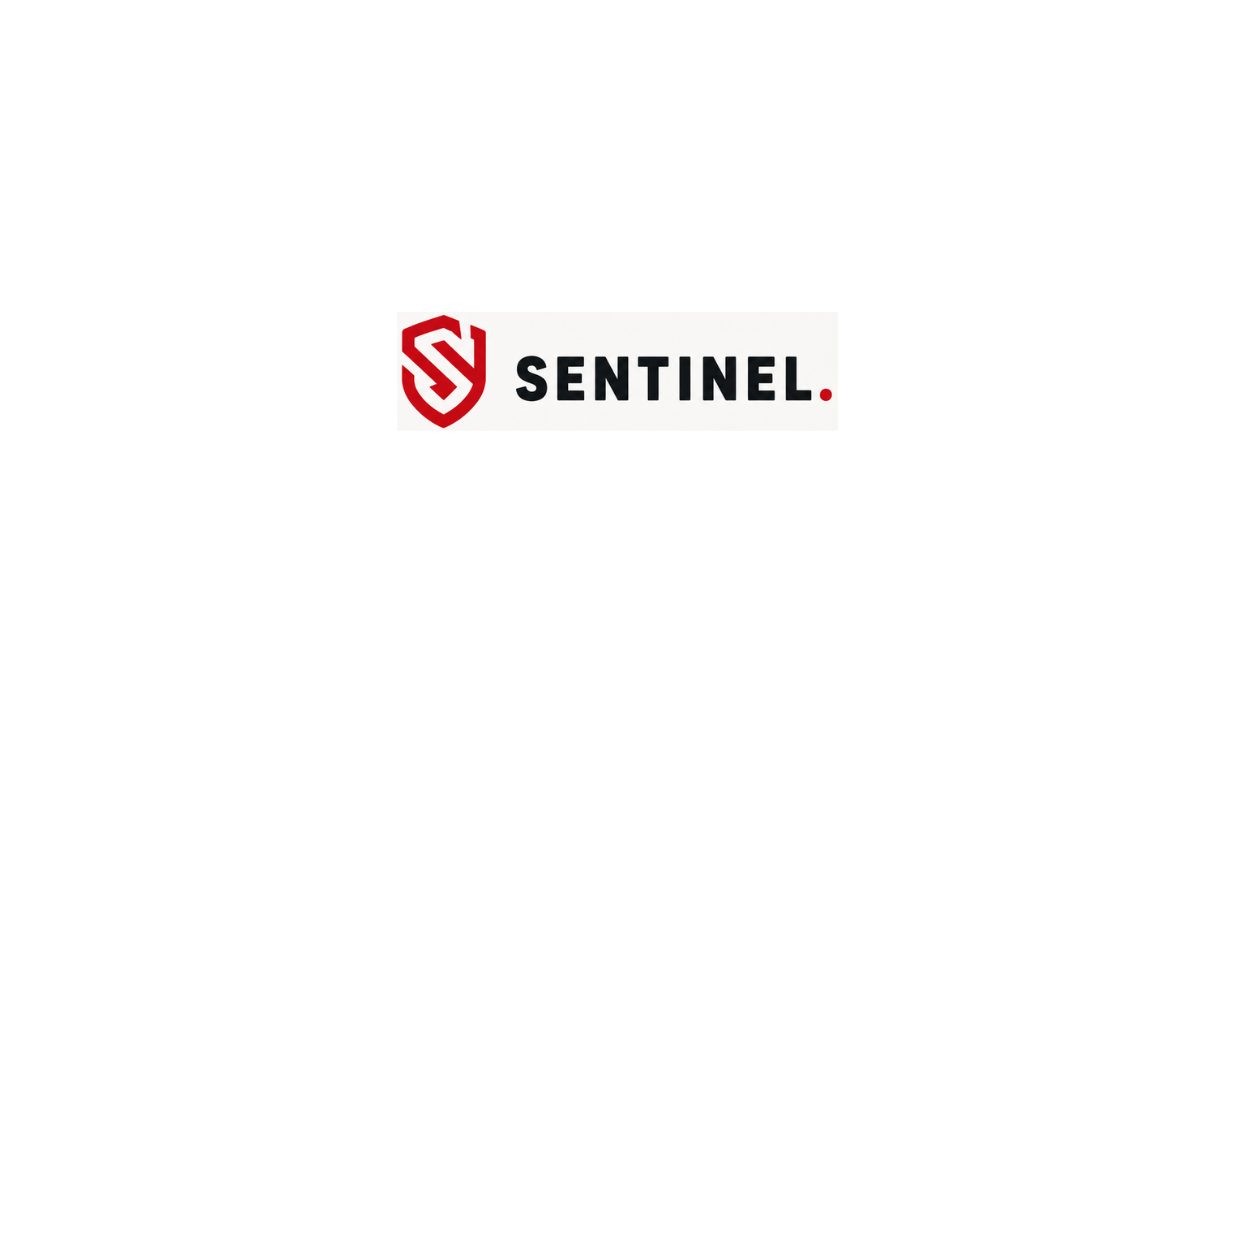
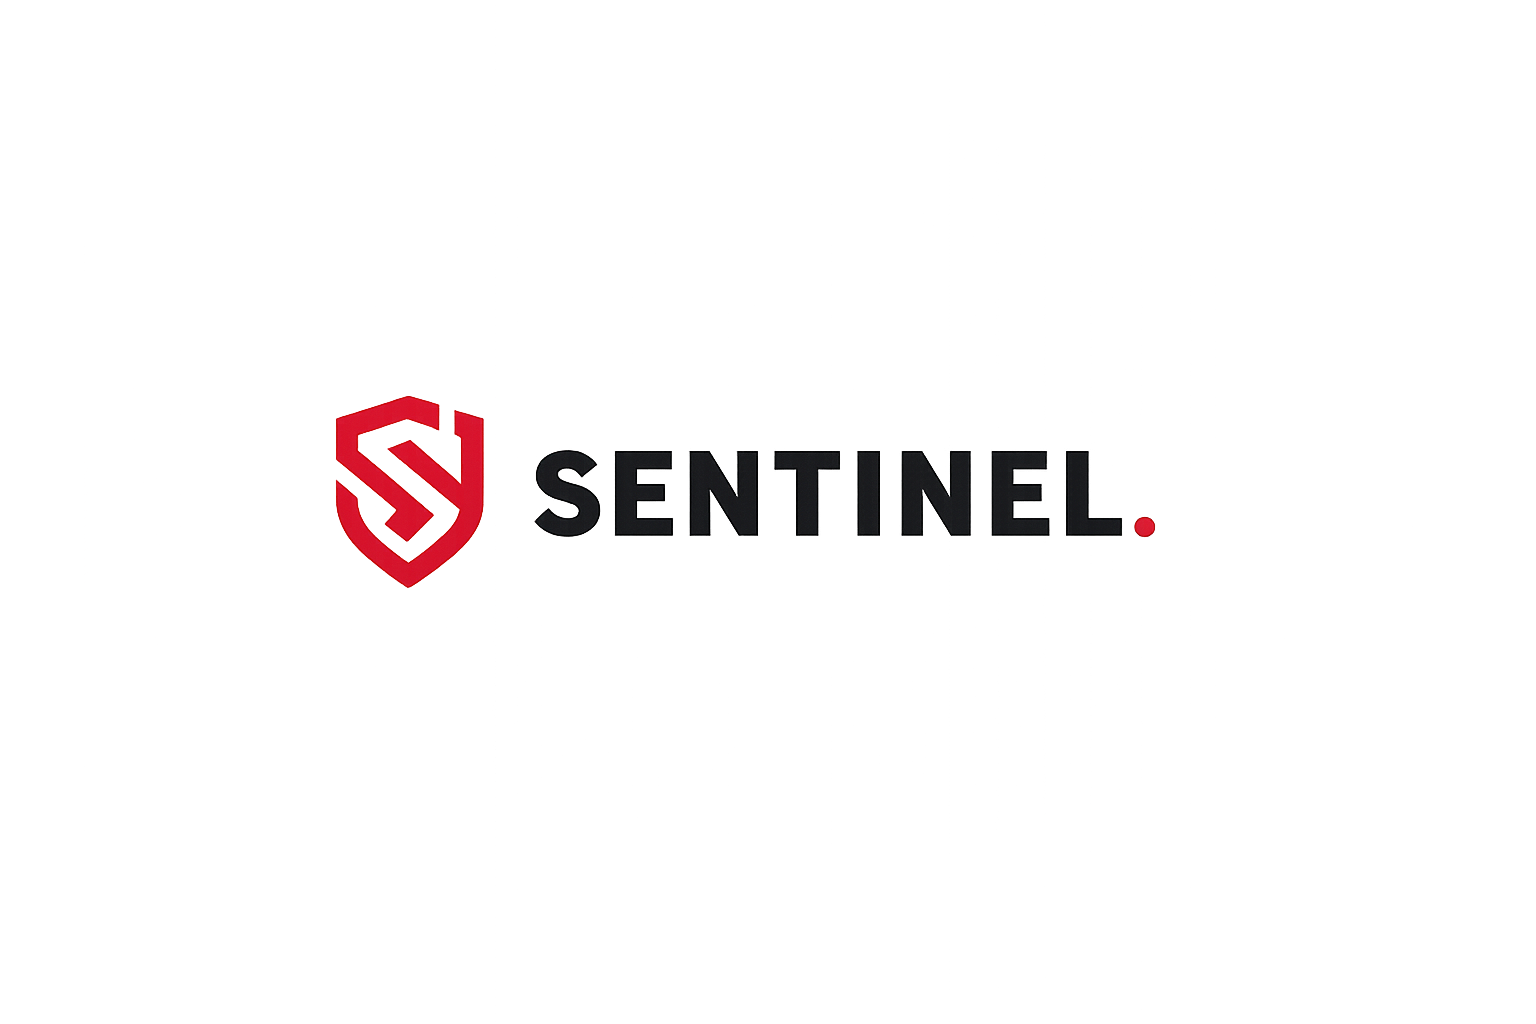
Replace placeholder branding with the real Sentinel shield mark
The supplied logo files arrived as flattened JPEGs on opaque black, which
cannot sit on the off-white UI. Because artwork on pure black is already
premultiplied alpha, unpremultiplying recovers true anti-aliased edges, so
the shield extracts cleanly without a dark halo.

- Extract the shield to public/brand/shield.png with real transparency and
  render it via ShieldMark, preserving its 222:288 ratio inside the square
  sizing the six call sites already use
- Normalise the mark to the #CC1E1E brand token; the sampled JPEG reds
  disagreed with each other, so the design-system value is authoritative
- Add icon.png and apple-icon.png, replacing the default Next.js favicon.
  The Apple tile gets an off-white surface because iOS composites
  transparency onto black
- Keep the wordmark as live text so it stays crisp and recolourable
- Drop the unreferenced create-next-app SVGs

Changed region(s): [[0.2184, 0.375, 0.7488, 0.5938], [0.312, 0.25, 0.6552, 0.3438]]

diff --git a/src/components/Wordmark.tsx b/src/components/Wordmark.tsx
@@ -1,7 +1,10 @@
+import Image from "next/image";
+
 /**
  * SENTINEL. wordmark — the red period is non-negotiable (SOUL §6.1).
- * On-screen SVG/text mark is a placeholder only; the true vector comes from the
- * Sentinel Drive via contact@getbrandedfast.com (SOUL §13.10) for any print use.
+ * Rendered as live text so it stays crisp at any size and recolours with the
+ * theme. For print, use the true vector from the Sentinel Drive via
+ * contact@getbrandedfast.com (SOUL §13.10).
  */
 export function Wordmark({
   className = "",
@@ -32,22 +35,21 @@ export function Wordmark({
   );
 }
 
-/** Small shield-S placeholder icon (screen only; not for print). */
+/**
+ * Shield-S mark. Call sites size it with square utilities (h-8 w-8), so
+ * object-contain preserves the mark's 222:288 portrait ratio instead of
+ * stretching it. Screen only; not for print.
+ */
 export function ShieldMark({ className = "h-8 w-8" }: { className?: string }) {
   return (
-    <svg viewBox="0 0 48 56" className={className} aria-hidden="true">
-      <path
-        d="M24 2 4 10v18c0 14 9 22 20 26 11-4 20-12 20-26V10L24 2Z"
-        fill="#CC1E1E"
-      />
-      <path
-        d="M17 33c2 2.4 5 3.6 8 3.4 3.2-.2 5.6-1.9 5.6-4.6 0-6-13-3.4-13-9.4 0-2.6 2.6-4.4 6-4.4 2.6 0 4.8.9 6.4 2.4"
-        fill="none"
-        stroke="#FFFFFF"
-        strokeWidth="3.2"
-        strokeLinecap="round"
-        strokeLinejoin="round"
-      />
-    </svg>
+    <Image
+      src="/brand/shield.png"
+      alt=""
+      aria-hidden="true"
+      width={222}
+      height={288}
+      className={`object-contain ${className}`}
+      priority
+    />
   );
 }
